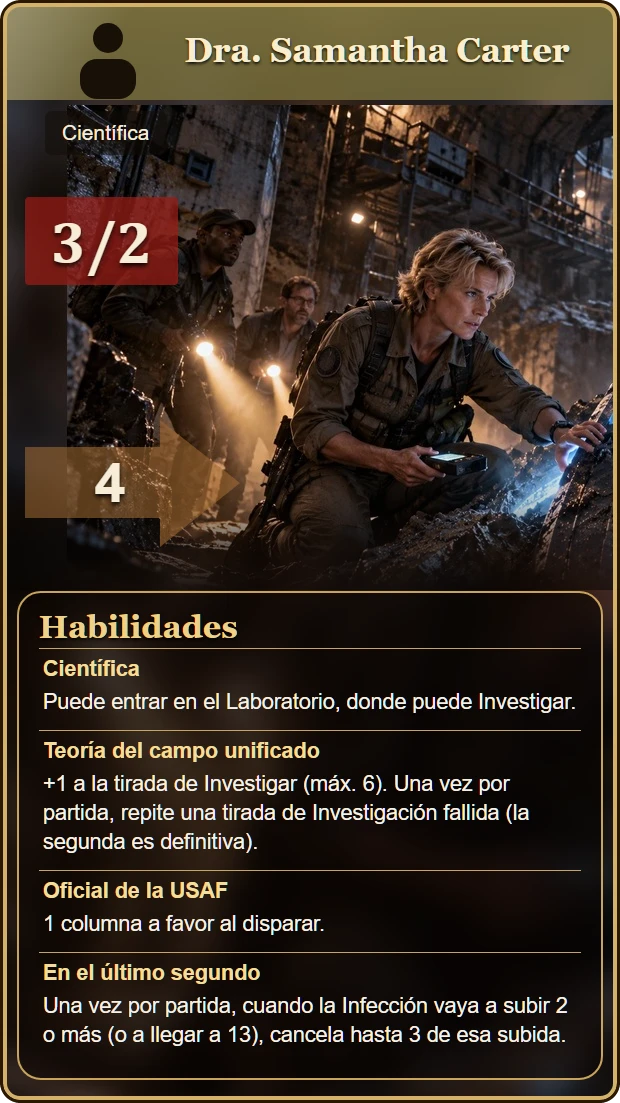
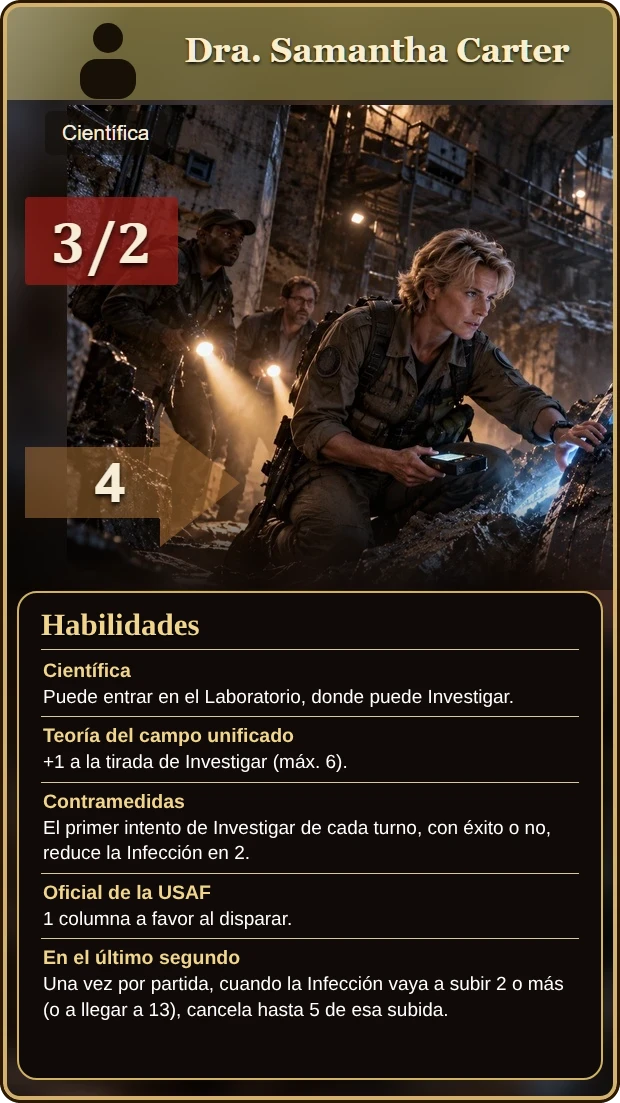
Carta de la Dra. Carter: panel de habilidades con las nuevas, foto sin tocar
Claude-Session: https://claude.ai/code/session_01KmRiLam16qxK6v4ebdfK1d

diff --git a/sw.js b/sw.js
@@ -1,7 +1,7 @@
 /* Service worker: permite instalar la web como app y jugar sin conexión.
    Código (html/js/css): red primero, con copia local de reserva. Imágenes y audio: caché primero. */
 'use strict';
-const CACHE = 'doz3-v61';
+const CACHE = 'doz3-v62';
 const SHELL = ['./', 'index.html', 'style.css', 'manifest.webmanifest', 'icons/icon-192.png', 'icons/icon-512.png', 'assets/portada.jpg', 'assets/fondo_nueva.webp', 'assets/fondo_ranking.webp',
   'js/version.js', 'js/data.js', 'js/events.js', 'js/dest.js', 'js/evlog.js', 'js/preview.js', 'js/obituario.js', 'js/engine.js', 'js/game.js', 'js/phases.js', 'js/actions.js', 'js/cardtext.js', 'js/ui.js', 'js/anim.js',
   'js/expansions.js', 'js/expansions2.js', 'js/sfx.js', 'js/sound.js', 'js/opciones.js', 'js/voz.js', 'js/ost.js', 'assets/sonidos/letras/letras.js', 'assets/sonidos/efectos/sfx_disparo.mp3', 'assets/sonidos/efectos/sfx_disparo_largo.mp3', 'js/mapzoom.js', 'js/seedcode.js', 'js/save.js', 'js/main.js', 'js/bot.js'];

diff --git a/js/version.js b/js/version.js
@@ -1,2 +1,2 @@
 /* Fecha y hora de la última build (hora de Madrid). Se actualiza con cada cambio publicado. */
-const BUILD_TIME = '2026-11-01 03:30';
+const BUILD_TIME = '2026-11-01 04:00';

diff --git a/CHANGELOG.md b/CHANGELOG.md
@@ -2,6 +2,11 @@
 
 Registro de cambios por publicación (push a `main`). Lo más reciente, arriba. Cada entrada lleva la misma fecha y hora que `BUILD_TIME` de `js/version.js`.
 
+## 2026-11-01 04:00
+
+### Cambios
+- **Carta de la Dra. Samantha Carter:** regenerado el panel de habilidades con las nuevas (Contramedidas y «hasta 5» de Infección). La ilustración, la cabecera y las fichas de Fuerza y Movimiento se mantienen exactamente como estaban (`tools/generar_samcarter.mjs`).
+
 ## 2026-11-01 03:30
 
 ### Cambios
